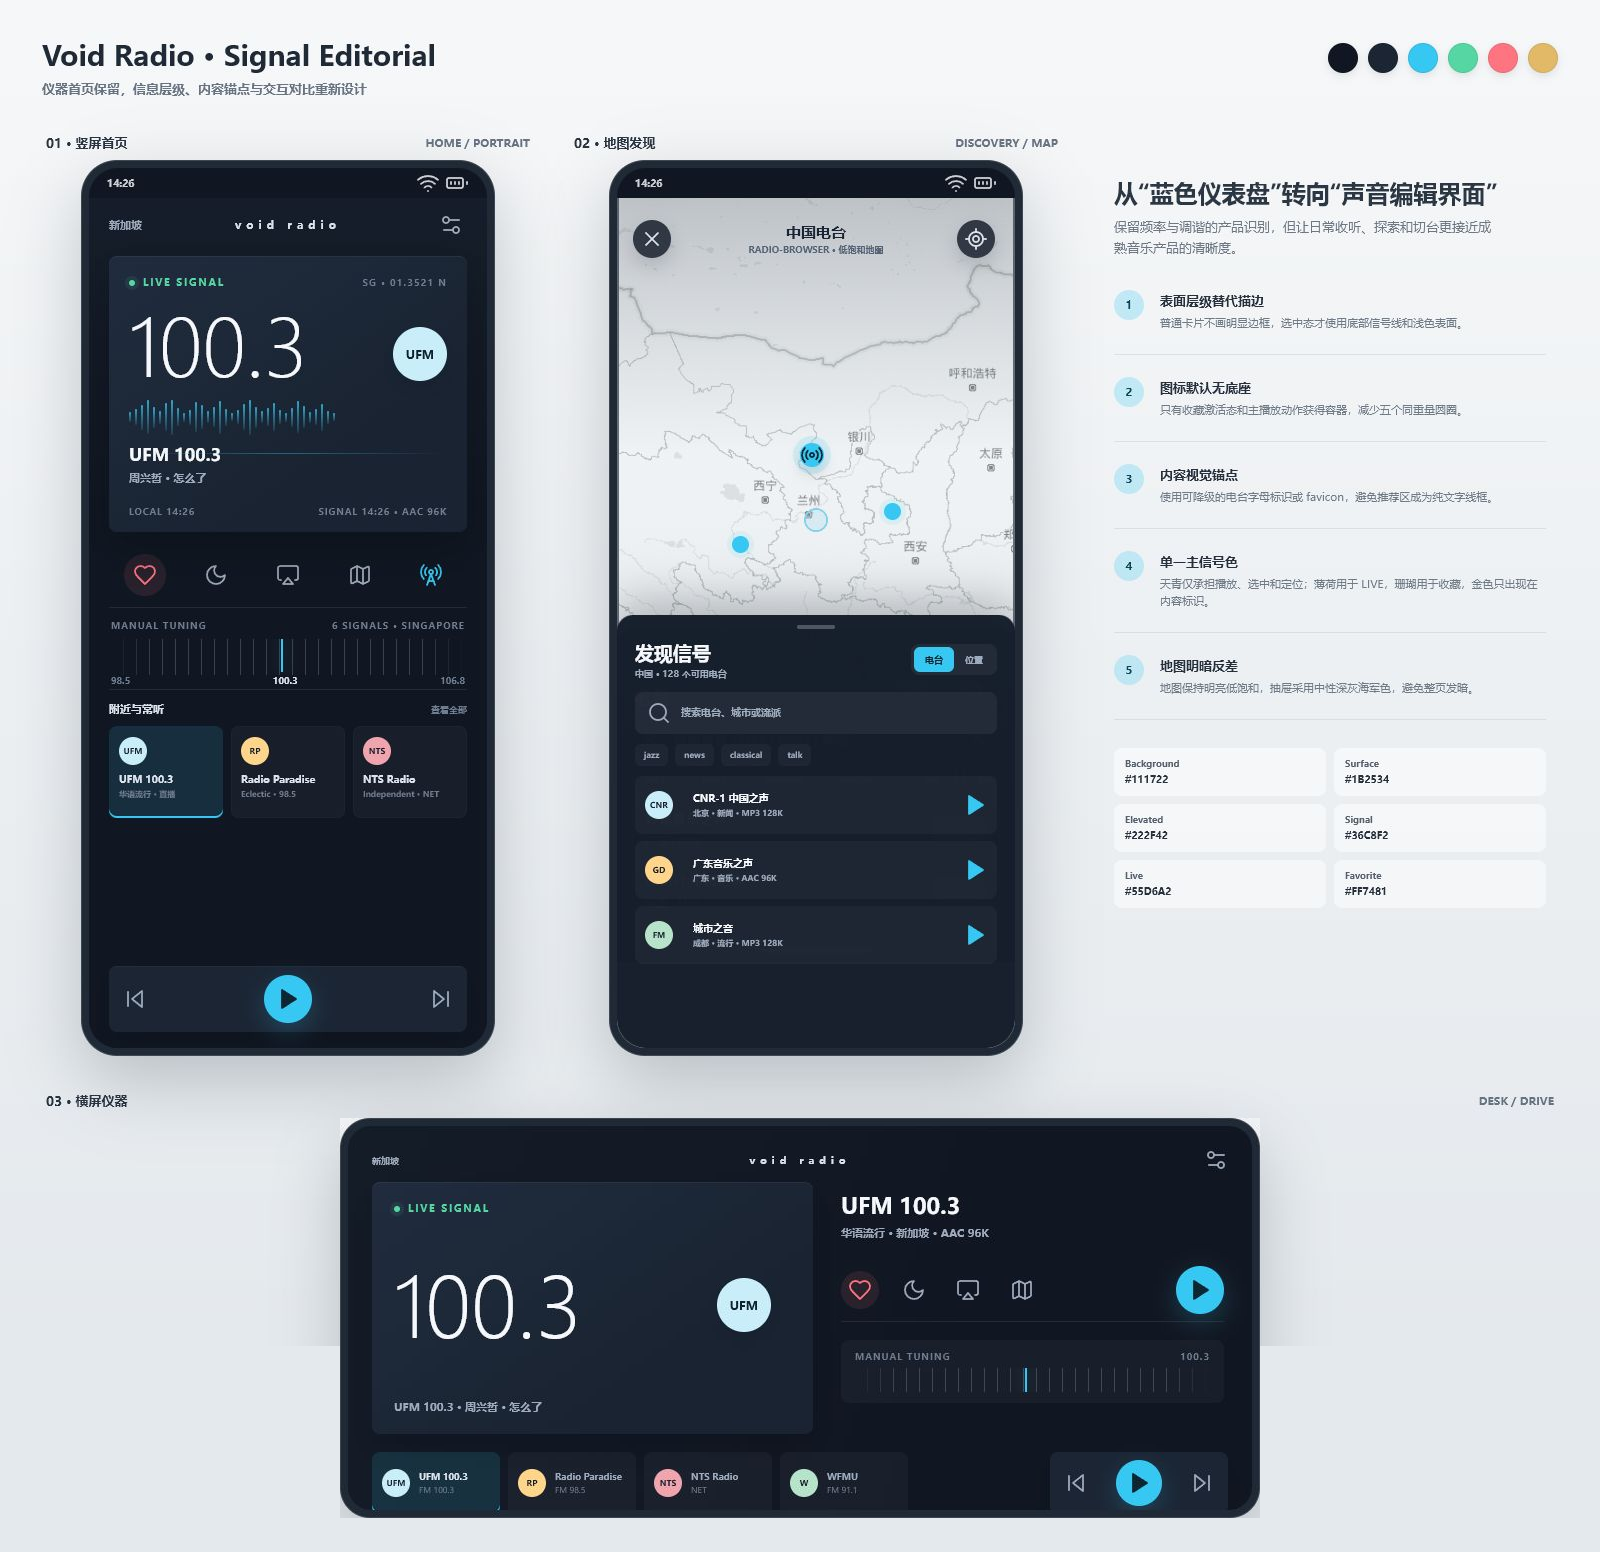
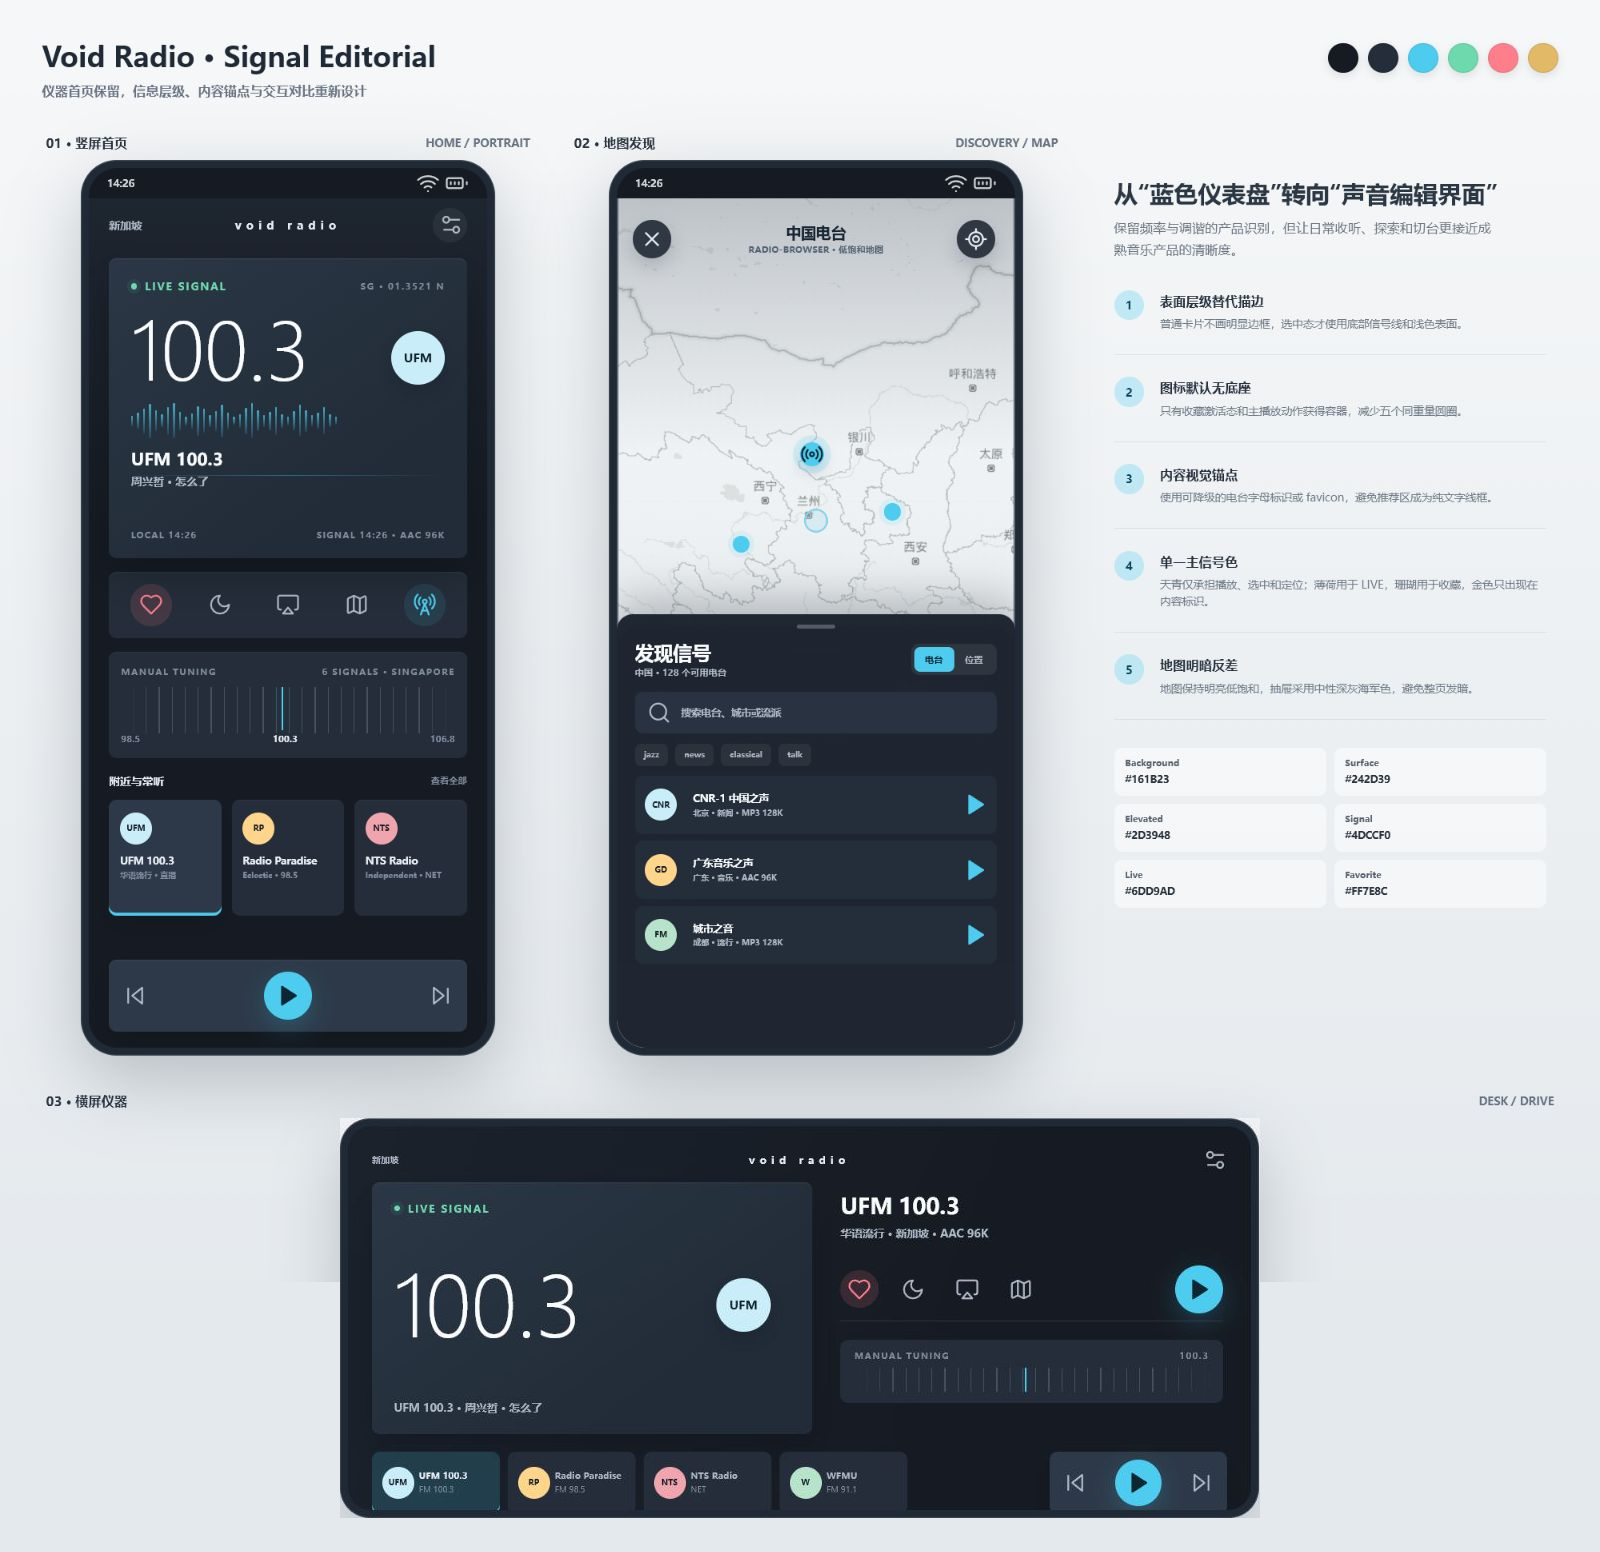
Refine Signal Editorial spacing and surfaces

diff --git a/20_产品/CP17_网络收音机/23_原型管理/V2.0_Moodi信息层级视觉方案/void_radio_signal_editorial.html b/20_产品/CP17_网络收音机/23_原型管理/V2.0_Moodi信息层级视觉方案/void_radio_signal_editorial.html
@@ -7,23 +7,23 @@
   <script src="../V1.1.1_UI方案设计板/lucide.min.js"></script>
   <style>
     :root {
-      --canvas: #111722;
-      --canvas-soft: #151d2a;
-      --surface: #1b2534;
-      --surface-raised: #222f42;
-      --surface-soft: #27364a;
-      --ink: #f6f8fb;
-      --text: #dce3ec;
-      --muted: #9eabbc;
-      --faint: #6f7d90;
-      --cyan: #36c8f2;
-      --cyan-soft: rgba(54, 200, 242, 0.13);
-      --mint: #55d6a2;
-      --coral: #ff7481;
+      --canvas: #161b23;
+      --canvas-soft: #1a212b;
+      --surface: #242d39;
+      --surface-raised: #2d3948;
+      --surface-soft: #344356;
+      --ink: #fbfcfe;
+      --text: #e7edf4;
+      --muted: #aeb8c6;
+      --faint: #7f8c9d;
+      --cyan: #4dccf0;
+      --cyan-soft: rgba(77, 204, 240, 0.18);
+      --mint: #6dd9ad;
+      --coral: #ff7e8c;
       --gold: #e2b967;
-      --line: rgba(233, 241, 248, 0.09);
-      --line-strong: rgba(233, 241, 248, 0.16);
-      --shadow: rgba(3, 8, 15, 0.34);
+      --line: rgba(238, 244, 250, 0.12);
+      --line-strong: rgba(238, 244, 250, 0.22);
+      --shadow: rgba(4, 8, 13, 0.28);
     }
 
     * { box-sizing: border-box; }
@@ -158,7 +158,7 @@
       flex-direction: column;
       padding: 4px 20px 16px;
       background:
-        linear-gradient(180deg, rgba(47, 72, 95, .13), transparent 35%),
+        linear-gradient(180deg, rgba(88, 111, 138, .12), transparent 38%),
         var(--canvas);
     }
 
@@ -191,24 +191,25 @@
       place-items: center;
       color: var(--muted);
       border: 0;
-      background: transparent;
+      border-radius: 50%;
+      background: rgba(255,255,255,.055);
     }
 
     .signal-panel {
       position: relative;
-      height: 276px;
-      margin-top: 8px;
-      padding: 20px;
+      height: 300px;
+      margin-top: 10px;
+      padding: 22px;
       overflow: hidden;
       border-radius: 8px;
-      background: linear-gradient(145deg, #202c3e, #192331 72%);
-      box-shadow: 0 18px 42px var(--shadow), inset 0 1px rgba(255,255,255,.055);
+      background: linear-gradient(145deg, #2b3746, #222c38 72%);
+      box-shadow: 0 18px 42px var(--shadow), inset 0 1px rgba(255,255,255,.075);
     }
 
     .signal-panel::after {
       content: "";
       position: absolute;
-      inset: auto 20px 78px;
+      inset: auto 22px 82px;
       height: 1px;
       background: linear-gradient(90deg, transparent, rgba(54,200,242,.4), transparent);
     }
@@ -308,9 +309,9 @@
 
     .origin-row {
       position: absolute;
-      left: 20px;
-      right: 20px;
-      bottom: 15px;
+      left: 22px;
+      right: 22px;
+      bottom: 17px;
       display: flex;
       justify-content: space-between;
       color: var(--faint);
@@ -321,11 +322,14 @@
 
     .action-strip {
       height: 66px;
-      margin-top: 10px;
+      margin-top: 14px;
+      padding: 0 8px;
       display: flex;
       align-items: center;
       justify-content: space-around;
-      border-bottom: 1px solid var(--line);
+      border-radius: 8px;
+      background: var(--surface);
+      box-shadow: inset 0 1px rgba(255,255,255,.045);
     }
 
     .action {
@@ -341,15 +345,22 @@
     .action.active {
       color: var(--coral);
       border-radius: 50%;
-      background: rgba(255,116,129,.1);
+      background: rgba(255,126,140,.14);
     }
 
-    .action.signal { color: var(--cyan); }
+    .action.signal {
+      color: var(--cyan);
+      border-radius: 50%;
+      background: rgba(77,204,240,.11);
+    }
 
     .tuner {
-      height: 82px;
-      padding: 12px 2px 8px;
-      border-bottom: 1px solid var(--line);
+      height: 106px;
+      margin-top: 14px;
+      padding: 14px 12px 10px;
+      border-radius: 8px;
+      background: var(--surface);
+      box-shadow: inset 0 1px rgba(255,255,255,.045);
     }
 
     .tuner-head {
@@ -363,8 +374,8 @@
 
     .scale {
       position: relative;
-      height: 36px;
-      margin-top: 8px;
+      height: 46px;
+      margin-top: 10px;
       background: repeating-linear-gradient(90deg, transparent 0 12px, rgba(185,199,215,.24) 12px 13px);
       mask-image: linear-gradient(90deg, transparent, black 12%, black 88%, transparent);
     }
@@ -375,7 +386,7 @@
       left: 48%;
       top: -4px;
       width: 2px;
-      height: 37px;
+      height: 47px;
       background: var(--cyan);
       box-shadow: 0 0 14px rgba(54,200,242,.32);
     }
@@ -393,7 +404,7 @@
     .station-section {
       flex: 1;
       min-height: 0;
-      padding-top: 12px;
+      padding-top: 16px;
     }
 
     .section-head {
@@ -414,27 +425,27 @@
     .station-list {
       display: grid;
       grid-template-columns: repeat(3, 1fr);
-      gap: 8px;
-      margin-top: 10px;
+      gap: 10px;
+      margin-top: 12px;
     }
 
     .station-card {
       min-width: 0;
-      height: 92px;
-      padding: 11px 10px;
+      height: 116px;
+      padding: 13px 11px;
       border-radius: 8px;
-      background: rgba(255,255,255,.035);
-      box-shadow: inset 0 0 0 1px rgba(255,255,255,.025);
+      background: var(--surface);
+      box-shadow: inset 0 1px rgba(255,255,255,.045);
     }
 
     .station-card.selected {
-      background: var(--cyan-soft);
-      box-shadow: inset 0 -2px var(--cyan);
+      background: var(--surface-raised);
+      box-shadow: inset 0 -3px var(--cyan), 0 10px 24px rgba(4,8,13,.16);
     }
 
     .station-badge {
-      width: 28px;
-      height: 28px;
+      width: 32px;
+      height: 32px;
       display: grid;
       place-items: center;
       border-radius: 50%;
@@ -445,7 +456,7 @@
     }
 
     .station-name {
-      margin-top: 8px;
+      margin-top: 10px;
       overflow: hidden;
       color: var(--text);
       font-size: 10px;
@@ -462,15 +473,15 @@
     }
 
     .player-bar {
-      height: 66px;
+      height: 72px;
       display: grid;
       grid-template-columns: 1fr auto 1fr;
       align-items: center;
-      margin-top: 10px;
+      margin-top: auto;
       padding: 0 14px;
       border-radius: 8px;
-      background: var(--surface);
-      box-shadow: 0 12px 28px rgba(3,8,15,.24), inset 0 1px rgba(255,255,255,.035);
+      background: var(--surface-raised);
+      box-shadow: 0 12px 28px rgba(3,8,15,.22), inset 0 1px rgba(255,255,255,.055);
     }
 
     .player-side { display: flex; align-items: center; gap: 12px; color: var(--muted); }
@@ -524,7 +535,7 @@
       color: var(--text);
       border: 0;
       border-radius: 50%;
-      background: rgba(20,29,42,.84);
+      background: rgba(31,40,52,.9);
       box-shadow: 0 8px 20px rgba(20,29,42,.18);
     }
 
@@ -562,7 +573,7 @@
       padding: 10px 18px 18px;
       border-radius: 16px 16px 0 0;
       color: var(--ink);
-      background: rgba(20,29,42,.98);
+      background: rgba(28,36,47,.985);
       box-shadow: 0 -18px 38px rgba(23,32,43,.18);
     }
 
@@ -587,7 +598,7 @@
       display: flex;
       padding: 3px;
       border-radius: 8px;
-      background: rgba(255,255,255,.055);
+      background: rgba(255,255,255,.075);
     }
 
     .segment {
@@ -609,7 +620,7 @@
       gap: 10px;
       border-radius: 8px;
       color: var(--muted);
-      background: rgba(255,255,255,.055);
+      background: #283240;
       font-size: 10px;
       font-weight: 650;
     }
@@ -619,7 +630,7 @@
       padding: 6px 9px;
       color: var(--muted);
       border-radius: 6px;
-      background: rgba(255,255,255,.035);
+      background: rgba(255,255,255,.06);
       font-size: 8px;
       font-weight: 720;
     }
@@ -634,7 +645,7 @@
       gap: 10px;
       padding: 0 10px;
       border-radius: 8px;
-      background: rgba(255,255,255,.036);
+      background: #242e3b;
     }
 
     .map-station strong { display: block; font-size: 10px; font-weight: 760; }
@@ -660,7 +671,7 @@
       height: 100%;
       overflow: hidden;
       border-radius: 23px;
-      background: linear-gradient(110deg, #141c28, #111722 66%);
+      background: linear-gradient(110deg, #1b222c, var(--canvas) 66%);
       padding: 20px 24px 18px;
     }
 
@@ -691,7 +702,7 @@
       grid-template-rows: auto 1fr auto;
       padding: 20px 22px;
       border-radius: 8px;
-      background: linear-gradient(145deg, #202c3e, #192331 72%);
+      background: linear-gradient(145deg, #2b3746, #222c38 72%);
       box-shadow: 0 16px 32px rgba(3,8,15,.25), inset 0 1px rgba(255,255,255,.05);
     }
 
@@ -720,7 +731,7 @@
       margin-top: 18px;
       padding: 11px 14px;
       border-radius: 8px;
-      background: rgba(255,255,255,.035);
+      background: var(--surface);
     }
 
     .landscape-tuner .scale { height: 24px; margin-top: 6px; }
@@ -746,7 +757,7 @@
       padding: 0 10px;
       border-radius: 8px;
       color: var(--muted);
-      background: rgba(255,255,255,.035);
+      background: var(--surface);
     }
 
     .landscape-chip.selected { color: var(--text); background: var(--cyan-soft); box-shadow: inset 0 -2px var(--cyan); }
@@ -761,7 +772,7 @@
       justify-content: space-around;
       border-radius: 8px;
       color: var(--muted);
-      background: var(--surface);
+      background: var(--surface-raised);
       box-shadow: 0 12px 25px rgba(3,8,15,.22);
     }
 
@@ -877,11 +888,11 @@
         <p>仪器首页保留，信息层级、内容锚点与交互对比重新设计</p>
       </div>
       <div class="palette" aria-label="主题色板">
-        <span class="swatch" style="background:#111722"></span>
-        <span class="swatch" style="background:#1b2534"></span>
-        <span class="swatch" style="background:#36c8f2"></span>
-        <span class="swatch" style="background:#55d6a2"></span>
-        <span class="swatch" style="background:#ff7481"></span>
+        <span class="swatch" style="background:#161b23"></span>
+        <span class="swatch" style="background:#242d39"></span>
+        <span class="swatch" style="background:#4dccf0"></span>
+        <span class="swatch" style="background:#6dd9ad"></span>
+        <span class="swatch" style="background:#ff7e8c"></span>
         <span class="swatch" style="background:#e2b967"></span>
       </div>
     </header>
@@ -1014,9 +1025,9 @@
         <div class="note-item"><span class="note-index">4</span><div><strong>单一主信号色</strong><p>天青仅承担播放、选中和定位；薄荷用于 LIVE，珊瑚用于收藏，金色只出现在内容标识。</p></div></div>
         <div class="note-item"><span class="note-index">5</span><div><strong>地图明暗反差</strong><p>地图保持明亮低饱和，抽屉采用中性深灰海军色，避免整页发暗。</p></div></div>
         <div class="token-table">
-          <div class="token">Background<b>#111722</b></div><div class="token">Surface<b>#1B2534</b></div>
-          <div class="token">Elevated<b>#222F42</b></div><div class="token">Signal<b>#36C8F2</b></div>
-          <div class="token">Live<b>#55D6A2</b></div><div class="token">Favorite<b>#FF7481</b></div>
+          <div class="token">Background<b>#161B23</b></div><div class="token">Surface<b>#242D39</b></div>
+          <div class="token">Elevated<b>#2D3948</b></div><div class="token">Signal<b>#4DCCF0</b></div>
+          <div class="token">Live<b>#6DD9AD</b></div><div class="token">Favorite<b>#FF7E8C</b></div>
         </div>
       </aside>
 

diff --git a/20_产品/CP17_网络收音机/23_原型管理/V2.0_Moodi信息层级视觉方案/2026-07-15_SignalEditorial视觉方案.md b/20_产品/CP17_网络收音机/23_原型管理/V2.0_Moodi信息层级视觉方案/2026-07-15_SignalEditorial视觉方案.md
@@ -35,6 +35,17 @@ updated: 2026-07-15
 - 地图发现：[signal_editorial_map.png](signal_editorial_map.png)
 - 横屏仪器：[signal_editorial_landscape.png](signal_editorial_landscape.png)
 
+## 第二轮调整
+
+2026-07-15 根据首轮评审中“上半部过密、下方空洞、功能区与背景差异不足”的反馈，完成第二轮收敛：
+
+- 重新分配竖屏高度，将空白转化为主信号区、调谐区、频道卡片和模块间距的有效空间。
+- 快捷操作使用统一 Surface 功能带，仅激活收藏和信号入口获得弱色容器。
+- 调谐器从背景线条升级为独立 Surface，增加触控高度和读数空间。
+- 推荐频道卡片加高，普通卡片使用 Surface，选中卡片使用 Elevated + 底部信号线。
+- 调整语义色阶为 `#161B23` / `#242D39` / `#2D3948`，提高功能面与背景的亮度差。
+- 清理横屏与地图抽屉中的旧深蓝硬编码，使三个画面共用同一 Surface 层级。
+
 ## 非目标
 
 - 本轮不修改 Flutter 代码。
@@ -57,4 +68,5 @@ updated: 2026-07-15
 - 首页底部播放区完整，推荐频道与调谐区无溢出。
 - 地图素材已改为原型目录内的相对路径，并避免了旧界面按钮与新原型叠加。
 - 横屏操作栏、调谐区和频道列表完整可见。
+- 第二轮竖屏首页已消除频道卡片与底部播放条之间的大块无意义空白。
 - **待人工确认**：视觉方向通过后，再将语义 Token 和组件层级落到 Flutter。
